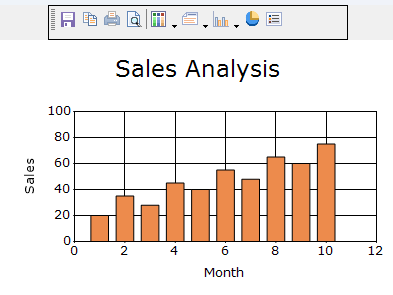
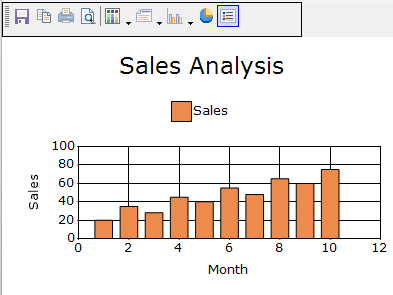
Update the toolbar

diff --git a/WindowsForms/chart/Chart-User-Interactions/toolbar.md b/WindowsForms/chart/Chart-User-Interactions/toolbar.md
@@ -124,19 +124,29 @@ This item provides a logical split between the collection of commands.</td></tr>
 
 The following properties control the position and layout of the toolbar:
 
-- [Position](https://help.syncfusion.com/cr/windowsforms/Syncfusion.Windows.Forms.Chart.ChartToolBarInfo.html#Syncfusion_Windows_Forms_Chart_ChartToolBarInfo_Position): Specifies the docking position of the toolbar.
-- [Alignment](https://help.syncfusion.com/cr/windowsforms/Syncfusion.Windows.Forms.Chart.ChartToolBarInfo.html#Syncfusion_Windows_Forms_Chart_ChartToolBarInfo_Alignment): Specifies the alignment of the toolbar.
-- [Orientation](https://help.syncfusion.com/cr/windowsforms/Syncfusion.Windows.Forms.Chart.ChartToolBarInfo.html#Syncfusion_Windows_Forms_Chart_ChartToolBarInfo_Orientation): Specifies the orientation of the toolbar.
+- [Position](https://help.syncfusion.com/cr/windowsforms/Syncfusion.Windows.Forms.Chart.ChartToolBarInfo.html#Syncfusion_Windows_Forms_Chart_ChartToolBarInfo_Position): Specifies the toolbar docking position. The default value is [Top]. The supported [ChartDock](https://help.syncfusion.com/cr/windowsforms/Syncfusion.Windows.Forms.Chart.ChartDock.html) values are:
+    - [Top](https://help.syncfusion.com/cr/windowsforms/Syncfusion.Windows.Forms.Chart.ChartDock.html#Syncfusion_Windows_Forms_Chart_ChartDock_Top): Docks the toolbar to the top of the chart.
+    - [Bottom](https://help.syncfusion.com/cr/windowsforms/Syncfusion.Windows.Forms.Chart.ChartDock.html#Syncfusion_Windows_Forms_Chart_ChartDock_Bottom): Docks the toolbar to the bottom of the chart.
+    - [Left](https://help.syncfusion.com/cr/windowsforms/Syncfusion.Windows.Forms.Chart.ChartDock.html#Syncfusion_Windows_Forms_Chart_ChartDock_Left): Docks the toolbar to the left side of the chart.
+    - [Right](https://help.syncfusion.com/cr/windowsforms/Syncfusion.Windows.Forms.Chart.ChartDock.html#Syncfusion_Windows_Forms_Chart_ChartDock_Right): Docks the toolbar to the right side of the chart.
+    - [Floating](https://help.syncfusion.com/cr/windowsforms/Syncfusion.Windows.Forms.Chart.ChartDock.html#Syncfusion_Windows_Forms_Chart_ChartDock_Right): Displays the toolbar without docking it to a chart edge.
+- [Alignment](https://help.syncfusion.com/cr/windowsforms/Syncfusion.Windows.Forms.Chart.ChartToolBarInfo.html#Syncfusion_Windows_Forms_Chart_ChartToolBarInfo_Alignment): Specifies the toolbar alignment within its docking area. The default value is [Center](https://help.syncfusion.com/cr/windowsforms/Syncfusion.Windows.Forms.Chart.ChartAlignment.html#Syncfusion_Windows_Forms_Chart_ChartAlignment_Center). The supported [ChartAlignment](https://help.syncfusion.com/cr/windowsforms/Syncfusion.Windows.Forms.Chart.ChartAlignment.html) values are:
+    - [Near](https://help.syncfusion.com/cr/windowsforms/Syncfusion.Windows.Forms.Chart.ChartAlignment.html#Syncfusion_Windows_Forms_Chart_ChartAlignment_Near): Aligns the toolbar near the starting edge of the docking area.
+    - [Center](https://help.syncfusion.com/cr/windowsforms/Syncfusion.Windows.Forms.Chart.ChartAlignment.html#Syncfusion_Windows_Forms_Chart_ChartAlignment_Center): Aligns the toolbar at the center of the docking area.
+    - [Far](https://help.syncfusion.com/cr/windowsforms/Syncfusion.Windows.Forms.Chart.ChartAlignment.html#Syncfusion_Windows_Forms_Chart_ChartAlignment_Far): Aligns the toolbar near the ending edge of the docking area.
+- [Orientation](https://help.syncfusion.com/cr/windowsforms/Syncfusion.Windows.Forms.Chart.ChartToolBarInfo.html#Syncfusion_Windows_Forms_Chart_ChartToolBarInfo_Orientation): Specifies the direction in which the toolbar items are arranged. The default value is [Horizontal](https://help.syncfusion.com/cr/windowsforms/Syncfusion.Windows.Forms.Chart.ChartOrientation.html#Syncfusion_Windows_Forms_Chart_ChartOrientation_Horizontal). The supported [ChartOrientation](https://help.syncfusion.com/cr/windowsforms/Syncfusion.Windows.Forms.Chart.ChartOrientation.html) values are:
+    - [Horizontal](https://help.syncfusion.com/cr/windowsforms/Syncfusion.Windows.Forms.Chart.ChartOrientation.html#Syncfusion_Windows_Forms_Chart_ChartOrientation_Horizontal): Arranges the toolbar items horizontally.
+    - [Vertical](https://help.syncfusion.com/cr/windowsforms/Syncfusion.Windows.Forms.Chart.ChartOrientation.html#Syncfusion_Windows_Forms_Chart_ChartOrientation_Vertical): Arranges the toolbar items vertically.
 - [Location](https://help.syncfusion.com/cr/windowsforms/Syncfusion.Windows.Forms.Chart.ChartToolBarInfo.html#Syncfusion_Windows_Forms_Chart_ChartToolBarInfo_Location): Specifies the location of the toolbar.
-- [AutoSize](https://help.syncfusion.com/cr/windowsforms/Syncfusion.Windows.Forms.Chart.ChartToolBarInfo.html#Syncfusion_Windows_Forms_Chart_ChartToolBarInfo_AutoSize): Controls whether the toolbar is resized automatically.
-- [Size](https://help.syncfusion.com/cr/windowsforms/Syncfusion.Windows.Forms.Chart.ChartToolBarInfo.html#Syncfusion_Windows_Forms_Chart_ChartToolBarInfo_Size): Specifies the size of the toolbar.
+- [AutoSize](https://help.syncfusion.com/cr/windowsforms/Syncfusion.Windows.Forms.Chart.ChartToolBarInfo.html#Syncfusion_Windows_Forms_Chart_ChartToolBarInfo_AutoSize): Controls whether the toolbar is resized automatically. he default value is `true`.
+- [Size](https://help.syncfusion.com/cr/windowsforms/Syncfusion.Windows.Forms.Chart.ChartToolBarInfo.html#Syncfusion_Windows_Forms_Chart_ChartToolBarInfo_Size): Specifies the size of the toolbar. This property is applied when [AutoSize](https://help.syncfusion.com/cr/windowsforms/Syncfusion.Windows.Forms.Chart.ChartToolBarInfo.html#Syncfusion_Windows_Forms_Chart_ChartToolBarInfo_AutoSize) is set to `false`.
 
 The following code example customizes the position and layout of the toolbar.
 
 {% tabs %}
 {% highlight c# %}
 chartControl.ToolBar.Position = ChartDock.Top;
-chartControl.ToolBar.Alignment = ChartAlignment.Center;
+chartControl.ToolBar.Alignment = ChartAlignment.Near;
 chartControl.ToolBar.Orientation = ChartOrientation.Horizontal;
 chartControl.ToolBar.Location = new Point(20, 20);
 chartControl.ToolBar.AutoSize = false;
@@ -144,7 +154,7 @@ chartControl.ToolBar.Size = new Size(300, 35);
 {% endhighlight %}
 {% highlight vb %}
 chartControl.ToolBar.Position = ChartDock.Top
-chartControl.ToolBar.Alignment = ChartAlignment.Center
+chartControl.ToolBar.Alignment = ChartAlignment.Near
 chartControl.ToolBar.Orientation = ChartOrientation.Horizontal
 chartControl.ToolBar.Location = New Point(20, 20)
 chartControl.ToolBar.AutoSize = False
@@ -158,25 +168,29 @@ chartControl.ToolBar.Size = New Size(300, 35)
 
 The following properties control the docking behavior of the toolbar:
 
-- [Behavior](https://help.syncfusion.com/cr/windowsforms/Syncfusion.Windows.Forms.Chart.ChartToolBarInfo.html#Syncfusion_Windows_Forms_Chart_ChartToolBarInfo_Behavior): Specifies the permitted docking behavior of the toolbar.
-- [DockingFree](https://help.syncfusion.com/cr/windowsforms/Syncfusion.Windows.Forms.Chart.ChartToolBarInfo.html#Syncfusion_Windows_Forms_Chart_ChartToolBarInfo_DockingFree): Controls whether the toolbar can remain undocked.
-- [ShowGrip](https://help.syncfusion.com/cr/windowsforms/Syncfusion.Windows.Forms.Chart.ChartToolBarInfo.html#Syncfusion_Windows_Forms_Chart_ChartToolBarInfo_ShowGrip): Controls whether the toolbar grip is displayed.
-- [Header](https://help.syncfusion.com/cr/windowsforms/Syncfusion.Windows.Forms.Chart.ChartToolBarInfo.html#Syncfusion_Windows_Forms_Chart_ChartToolBarInfo_Header): Specifies the height of the toolbar header.
+- [Behavior](https://help.syncfusion.com/cr/windowsforms/Syncfusion.Windows.Forms.Chart.ChartToolBarInfo.html#Syncfusion_Windows_Forms_Chart_ChartToolBarInfo_Behavior): Specifies the toolbar movement and docking behavior using one of the following [ChartDockingFlags](https://help.syncfusion.com/cr/windowsforms/Syncfusion.Windows.Forms.Chart.ChartDockingFlags.html) values:
+  - [All](https://help.syncfusion.com/cr/windowsforms/Syncfusion.Windows.Forms.Chart.ChartDockingFlags.html#Syncfusion_Windows_Forms_Chart_ChartDockingFlags_All): Allows the toolbar to be moved and docked.
+  - [Dockable](https://help.syncfusion.com/cr/windowsforms/Syncfusion.Windows.Forms.Chart.ChartDockingFlags.html#Syncfusion_Windows_Forms_Chart_ChartDockingFlags_Dockable): Allows the toolbar to be docked.
+  - [Movable](https://help.syncfusion.com/cr/windowsforms/Syncfusion.Windows.Forms.Chart.ChartDockingFlags.html#Syncfusion_Windows_Forms_Chart_ChartDockingFlags_Movable): Allows the toolbar to be moved.
+  - [None](https://help.syncfusion.com/cr/windowsforms/Syncfusion.Windows.Forms.Chart.ChartDockingFlags.html#Syncfusion_Windows_Forms_Chart_ChartDockingFlags_None): Prevents the toolbar from being moved or docked.
+- [DockingFree](https://help.syncfusion.com/cr/windowsforms/Syncfusion.Windows.Forms.Chart.ChartToolBarInfo.html#Syncfusion_Windows_Forms_Chart_ChartToolBarInfo_DockingFree): Controls whether the toolbar remains docked or can be placed at a free location when docking behavior is enabled. The default value is `false`.
+- [ShowGrip](https://help.syncfusion.com/cr/windowsforms/Syncfusion.Windows.Forms.Chart.ChartToolBarInfo.html#Syncfusion_Windows_Forms_Chart_ChartToolBarInfo_ShowGrip): Specifies whether the toolbar grip is displayed. Users can drag the toolbar using the grip when movement is enabled. The default value is `true`.
+- [Header](https://help.syncfusion.com/cr/windowsforms/Syncfusion.Windows.Forms.Chart.ChartToolBarInfo.html#Syncfusion_Windows_Forms_Chart_ChartToolBarInfo_Header): Specifies the height of the toolbar header. The default value is `0`.
 
 The following code example customizes the toolbar docking options.
 
 {% tabs %}
 {% highlight c# %}
-chartControl.ToolBar.Behavior = ChartDockingFlags.All;
+chartControl.ToolBar.Behavior = ChartDockingFlags.Dockable;
 chartControl.ToolBar.DockingFree = true;
-chartControl.ToolBar.ShowGrip = true;
-chartControl.ToolBar.Header = 20;
+chartControl.ToolBar.ShowGrip = false;
+chartControl.ToolBar.Header = 15;
 {% endhighlight %}
 {% highlight vb %}
-chartControl.ToolBar.Behavior = ChartDockingFlags.All
+chartControl.ToolBar.Behavior = ChartDockingFlags.Dockable
 chartControl.ToolBar.DockingFree = True
-chartControl.ToolBar.ShowGrip = True
-chartControl.ToolBar.Header = 20
+chartControl.ToolBar.ShowGrip = False
+chartControl.ToolBar.Header = 15
 {% endhighlight %}
 {% endtabs %}
 
@@ -187,8 +201,8 @@ chartControl.ToolBar.Header = 20
 The following properties customize the appearance of the toolbar:
 
 - [BackColor](https://help.syncfusion.com/cr/windowsforms/Syncfusion.Windows.Forms.Chart.ChartToolBarInfo.html#Syncfusion_Windows_Forms_Chart_ChartToolBarInfo_BackColor): Specifies the background color of the toolbar.
-- [Border](https://help.syncfusion.com/cr/windowsforms/Syncfusion.Windows.Forms.Chart.ChartToolBarInfo.html#Syncfusion_Windows_Forms_Chart_ChartToolBarInfo_Border): Gets the line settings used to draw the toolbar border.
-- [ShowBorder](https://help.syncfusion.com/cr/windowsforms/Syncfusion.Windows.Forms.Chart.ChartToolBarInfo.html#Syncfusion_Windows_Forms_Chart_ChartToolBarInfo_ShowBorder): Controls whether the toolbar border is displayed.
+- [Border](https://help.syncfusion.com/cr/windowsforms/Syncfusion.Windows.Forms.Chart.ChartToolBarInfo.html#Syncfusion_Windows_Forms_Chart_ChartToolBarInfo_Border): Gets the line settings used to draw the toolbar border. By default, this property is initialized with a new [LineInfo](https://help.syncfusion.com/cr/windowsforms/Syncfusion.Windows.Forms.Chart.LineInfo.html) instance.
+- [ShowBorder](https://help.syncfusion.com/cr/windowsforms/Syncfusion.Windows.Forms.Chart.ChartToolBarInfo.html#Syncfusion_Windows_Forms_Chart_ChartToolBarInfo_ShowBorder): Controls whether the toolbar border is displayed. The default value is `true`.
 
 N> The [Border](https://help.syncfusion.com/cr/windowsforms/Syncfusion.Windows.Forms.Chart.ChartToolBarInfo.html#Syncfusion_Windows_Forms_Chart_ChartToolBarInfo_Border) property is get-only. Customize its individual line settings directly.
 
@@ -215,12 +229,14 @@ chartcontrol.ToolBar.Border.Width = 5
 
 The following properties customize the appearance, size, and spacing of toolbar buttons:
 
-- [ButtonBackColor](https://help.syncfusion.com/cr/windowsforms/Syncfusion.Windows.Forms.Chart.ChartToolBarInfo.html#Syncfusion_Windows_Forms_Chart_ChartToolBarInfo_ButtonBackColor): Specifies the background color of toolbar buttons.
-- [ButtonForeColor](https://help.syncfusion.com/cr/windowsforms/Syncfusion.Windows.Forms.Chart.ChartToolBarInfo.html#Syncfusion_Windows_Forms_Chart_ChartToolBarInfo_ButtonForeColor): Specifies the foreground color of toolbar buttons.
-- [ButtonSize](https://help.syncfusion.com/cr/windowsforms/Syncfusion.Windows.Forms.Chart.ChartToolBarInfo.html#Syncfusion_Windows_Forms_Chart_ChartToolBarInfo_ButtonSize): Specifies the size of toolbar buttons.
-- [IconPadding](https://help.syncfusion.com/cr/windowsforms/Syncfusion.Windows.Forms.Chart.ChartToolBarInfo.html#Syncfusion_Windows_Forms_Chart_ChartToolBarInfo_IconPadding): Specifies the padding around toolbar item icons.
-- [Padding](https://help.syncfusion.com/cr/windowsforms/Syncfusion.Windows.Forms.Chart.ChartToolBarInfo.html#Syncfusion_Windows_Forms_Chart_ChartToolBarInfo_Padding): Specifies the padding within the toolbar.
-- [Spacing](https://help.syncfusion.com/cr/windowsforms/Syncfusion.Windows.Forms.Chart.ChartToolBarInfo.html#Syncfusion_Windows_Forms_Chart_ChartToolBarInfo_Spacing): Specifies the spacing between toolbar items.
+- [ButtonBackColor](https://help.syncfusion.com/cr/windowsforms/Syncfusion.Windows.Forms.Chart.ChartToolBarInfo.html#Syncfusion_Windows_Forms_Chart_ChartToolBarInfo_ButtonBackColor): Specifies the background color of toolbar buttons. The default value is `Color.Transparent`.
+- [ButtonForeColor](https://help.syncfusion.com/cr/windowsforms/Syncfusion.Windows.Forms.Chart.ChartToolBarInfo.html#Syncfusion_Windows_Forms_Chart_ChartToolBarInfo_ButtonForeColor): Specifies the foreground color of toolbar buttons. The default value is `Color.Transparent`.
+- [ButtonSize](https://help.syncfusion.com/cr/windowsforms/Syncfusion.Windows.Forms.Chart.ChartToolBarInfo.html#Syncfusion_Windows_Forms_Chart_ChartToolBarInfo_ButtonSize): Specifies the size of toolbar buttons. The default value is `22 × 22`.
+- [IconPadding](https://help.syncfusion.com/cr/windowsforms/Syncfusion.Windows.Forms.Chart.ChartToolBarInfo.html#Syncfusion_Windows_Forms_Chart_ChartToolBarInfo_IconPadding): Specifies the padding around toolbar item icons. The default value is `2`.
+- [Padding](https://help.syncfusion.com/cr/windowsforms/Syncfusion.Windows.Forms.Chart.ChartToolBarInfo.html#Syncfusion_Windows_Forms_Chart_ChartToolBarInfo_Padding): Specifies the padding within the toolbar. The default value is `2`.
+- [Spacing](https://help.syncfusion.com/cr/windowsforms/Syncfusion.Windows.Forms.Chart.ChartToolBarInfo.html#Syncfusion_Windows_Forms_Chart_ChartToolBarInfo_Spacing): Specifies the spacing between toolbar items. The default value is `0`.
+
+N> The [ButtonFlatStyle](https://help.syncfusion.com/cr/windowsforms/Syncfusion.Windows.Forms.Chart.ChartToolBarInfo.html#Syncfusion_Windows_Forms_Chart_ChartToolBarInfo_ButtonFlatStyle) property is obsolete and is no longer used.
 
 The following code example customizes the toolbar buttons.
 
@@ -247,7 +263,7 @@ chartControl.ToolBar.Spacing = 2
 
 ## Default toolbar items
 
-The [EnableDefaultItems](https://help.syncfusion.com/cr/windowsforms/Syncfusion.Windows.Forms.Chart.ChartToolBarInfo.html#Syncfusion_Windows_Forms_Chart_ChartToolBarInfo_EnableDefaultItems) property controls whether the built-in toolbar items are included in the toolbar.
+The [EnableDefaultItems](https://help.syncfusion.com/cr/windowsforms/Syncfusion.Windows.Forms.Chart.ChartToolBarInfo.html#Syncfusion_Windows_Forms_Chart_ChartToolBarInfo_EnableDefaultItems) property controls whether the built-in toolbar items are included in the toolbar. The default value is `true`.
 
 The following code example disables the default toolbar items.
 
@@ -262,9 +278,11 @@ chartControl.ToolBar.EnableDefaultItems = False
 
 ## Customize toolbar items
 
-The [Items](https://help.syncfusion.com/cr/windowsforms/Syncfusion.Windows.Forms.Chart.ChartToolBarInfo.html#Syncfusion_Windows_Forms_Chart_ChartToolBarInfo_Items) property gets the collection of toolbar items. Use the collection to add, remove, and arrange toolbar items.
+The [Items](https://help.syncfusion.com/cr/windowsforms/Syncfusion.Windows.Forms.Chart.ChartToolBarInfo.html#Syncfusion_Windows_Forms_Chart_ChartToolBarInfo_Items) property gets the collection of toolbar items. By default, this property is initialized with a new [ChartToolBarItemCollection](https://help.syncfusion.com/cr/windowsforms/Syncfusion.Windows.Forms.Chart.ChartToolBarItemCollection.html) instance. Use the collection to add, remove, or arrange toolbar items.
 
-N> The `Items` property is get-only. Modify toolbar items through the returned [ChartToolBarItemCollection](https://help.syncfusion.com/cr/windowsforms/Syncfusion.Windows.Forms.Chart.ChartToolBarItemCollection.html).
+N>
+- The [Items](https://help.syncfusion.com/cr/windowsforms/Syncfusion.Windows.Forms.Chart.ChartToolBarInfo.html#Syncfusion_Windows_Forms_Chart_ChartToolBarInfo_Items) property is get-only. Modify toolbar items through the returned [ChartToolBarItemCollection](https://help.syncfusion.com/cr/windowsforms/Syncfusion.Windows.Forms.Chart.ChartToolBarItemCollection.html).
+- The [Buttons](https://help.syncfusion.com/cr/windowsforms/Syncfusion.Windows.Forms.Chart.ChartToolBarInfo.html#Syncfusion_Windows_Forms_Chart_ChartToolBarInfo_Buttons) property is obsolete. Use the [Items](https://help.syncfusion.com/cr/windowsforms/Syncfusion.Windows.Forms.Chart.ChartToolBarInfo.html#Syncfusion_Windows_Forms_Chart_ChartToolBarInfo_Items) collection to add, remove, or arrange toolbar items.
 
 The following code example adds and removes toolbar items.
 
@@ -303,12 +321,12 @@ chartControl.ToolBar.Items.Remove(saveItem)
 
 The [ChartToolBarItemBase](https://help.syncfusion.com/cr/windowsforms/Syncfusion.Windows.Forms.Chart.ChartToolBarItemBase.html) and [ChartToolBarItem](https://help.syncfusion.com/cr/windowsforms/Syncfusion.Windows.Forms.Chart.ChartToolBarItem.html) classes provide the following properties to customize individual toolbar items:
 
-- [Name](https://help.syncfusion.com/cr/windowsforms/Syncfusion.Windows.Forms.Chart.ChartToolBarItemBase.html#Syncfusion_Windows_Forms_Chart_ChartToolBarItemBase_Name): Specifies the name of the toolbar item.
-- [Tag](https://help.syncfusion.com/cr/windowsforms/Syncfusion.Windows.Forms.Chart.ChartToolBarItemBase.html#Syncfusion_Windows_Forms_Chart_ChartToolBarItemBase_Tag): Specifies custom data associated with the toolbar item.
-- [ToolTip](https://help.syncfusion.com/cr/windowsforms/Syncfusion.Windows.Forms.Chart.ChartToolBarItemBase.html#Syncfusion_Windows_Forms_Chart_ChartToolBarItemBase_ToolTip): Specifies the tooltip displayed for the toolbar item.
-- [Image](https://help.syncfusion.com/cr/windowsforms/Syncfusion.Windows.Forms.Chart.ChartToolBarItem.html#Syncfusion_Windows_Forms_Chart_ChartToolBarItem_Image): Specifies the image displayed by the toolbar item.
-- [IsCheckable](https://help.syncfusion.com/cr/windowsforms/Syncfusion.Windows.Forms.Chart.ChartToolBarItem.html#Syncfusion_Windows_Forms_Chart_ChartToolBarItem_IsCheckable): Controls whether the toolbar item can be checked.
-- [Checked](https://help.syncfusion.com/cr/windowsforms/Syncfusion.Windows.Forms.Chart.ChartToolBarItem.html#Syncfusion_Windows_Forms_Chart_ChartToolBarItem_Checked): Controls whether the toolbar item is checked.
+- [Name](https://help.syncfusion.com/cr/windowsforms/Syncfusion.Windows.Forms.Chart.ChartToolBarItemBase.html#Syncfusion_Windows_Forms_Chart_ChartToolBarItemBase_Name): Specifies the name of the toolbar item. The default value is an `empty`.
+- [Tag](https://help.syncfusion.com/cr/windowsforms/Syncfusion.Windows.Forms.Chart.ChartToolBarItemBase.html#Syncfusion_Windows_Forms_Chart_ChartToolBarItemBase_Tag): Specifies custom data associated with the toolbar item. The default value is `null`.
+- [ToolTip](https://help.syncfusion.com/cr/windowsforms/Syncfusion.Windows.Forms.Chart.ChartToolBarItemBase.html#Syncfusion_Windows_Forms_Chart_ChartToolBarItemBase_ToolTip): Specifies the tooltip displayed for the toolbar item. The default value is an `empty`.
+- [Image](https://help.syncfusion.com/cr/windowsforms/Syncfusion.Windows.Forms.Chart.ChartToolBarItem.html#Syncfusion_Windows_Forms_Chart_ChartToolBarItem_Image): Specifies the image displayed by the toolbar item. The default value is `null`.
+- [IsCheckable](https://help.syncfusion.com/cr/windowsforms/Syncfusion.Windows.Forms.Chart.ChartToolBarItem.html#Syncfusion_Windows_Forms_Chart_ChartToolBarItem_IsCheckable): Controls whether the toolbar item can be checked. The default value is `false`.
+- [Checked](https://help.syncfusion.com/cr/windowsforms/Syncfusion.Windows.Forms.Chart.ChartToolBarItem.html#Syncfusion_Windows_Forms_Chart_ChartToolBarItem_Checked): Controls whether the toolbar item is checked. The default value is `false`.
 
 The following code example customizes a toolbar item.
 
@@ -445,7 +463,7 @@ chartControl.ToolBar.ShowDialog = True
 {% endhighlight %}
 {% endtabs %}
 
-![Toolbar Show Dialog in Windows Forms Chart](../Chart-User-Interactions_Images/toolbar-show-dialog.png)
+![Toolbar Show Dialog in Windows Forms Chart](../Chart-User-Interactions_Images/toolbar-show-dialog.png){height:"350", width="350"}
 
 ## Chart series style dialog
 
@@ -462,7 +480,7 @@ The following customization options are available in the Chart Series Style dial
 
 The following image shows the **Interior** tab of the Chart Series Style dialog box.
 
-![Chart Series Style Dialog in Windows Forms Chart](../Chart-User-Interactions_Images/chart-series-style-dialog.png)
+![Chart Series Style Dialog in Windows Forms Chart](../Chart-User-Interactions_Images/chart-series-style-dialog.png){height:"350", width="350"}
 
 ## Include toolbar in exported chart
 
@@ -483,6 +501,6 @@ chartControl.ShowToolbarInImage = False
 {% endhighlight %}
 {% endtabs %}
 
-## Seealso
+## See Also
 
--[How to work with WinForms Chart ToolBars](https://support.syncfusion.com/kb/article/1168/how-to-work-with-winforms-chart-toolbars)
+- [How to work with WinForms Chart ToolBars](https://support.syncfusion.com/kb/article/1168/how-to-work-with-winforms-chart-toolbars)

diff --git a/WindowsForms/chart/Chart-User-Interactions/tooltip.md b/WindowsForms/chart/Chart-User-Interactions/tooltip.md
@@ -207,6 +207,8 @@ chartControl.Tooltip.Padding =
 
 The [FancyToolTip](https://help.syncfusion.com/cr/windowsforms/Syncfusion.Windows.Forms.Chart.ChartSeries.html#Syncfusion_Windows_Forms_Chart_ChartSeries_FancyToolTip) property provides options to customize the fancy tooltip displayed when the mouse pointer hovers over a data point. By default, the property is initialized with a [ChartFancyToolTipInfo](https://help.syncfusion.com/cr/windowsforms/Syncfusion.Windows.Forms.Chart.ChartFancyToolTipInfo.html) instance.
 
+N> For a better fancy tooltip experience, set the [ShowToolTips](https://help.syncfusion.com/cr/windowsforms/Syncfusion.Windows.Forms.Chart.ChartControl.html#Syncfusion_Windows_Forms_Chart_ChartControl_ShowToolTips) property to `false` to hide the standard tooltip.
+
 The following properties are available in the `ChartFancyToolTipInfo` class to customize the appearance of the fancy tooltip:
 
 - [Alignment](https://help.syncfusion.com/cr/windowsforms/Syncfusion.Windows.Forms.Chart.ChartFancyToolTipInfo.html#Syncfusion_Windows_Forms_Chart_ChartFancyToolTipInfo_Alignment): Indicates the alignment of the marker relative to the fancy tooltip.
